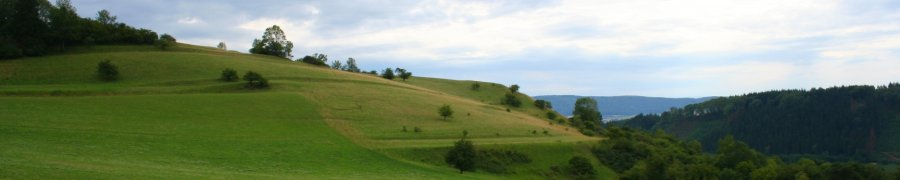
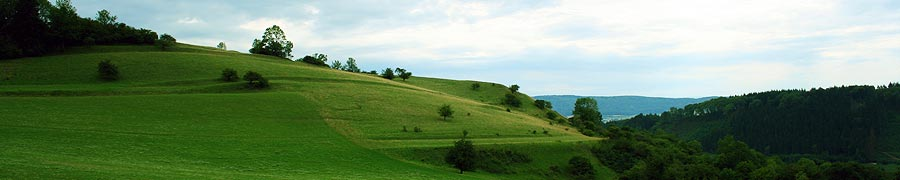
o #226: Layout bugs in IE6/7 fixed   - js: element.getAttribute("class") isn't supported by IE, use element.className instead o #194: All screens optimized for 1024x768   - Stats graphs now 715px instead of 735 o optimized header image for samplecontent o minor text changes o standard copyright head

diff --git a/modul_system/admin/scripts/dragdrophelper_tr.js b/modul_system/admin/scripts/dragdrophelper_tr.js
@@ -117,14 +117,13 @@ if(arrayTableIds == null)
 				parentNode = parentNode.parentNode;
 			//make a regular table out of it and make it look like the original
 			dragEl.innerHTML = "<table "+
-						         " class=\""+parentNode.getAttribute('class')+"\""+
+						         " class=\""+parentNode.className+"\""+
 								 " width=\""+(parentNode.getAttribute('width') != null ? parentNode.getAttribute('width') : "100%" )+"\""+
 								 " border=\""+(parentNode.getAttribute('border') != null ? parentNode.getAttribute('border') : "0" )+"\""+
 								 " cellpadding=\"0\" cellspacing=\"0\" "+
 								 " ><tr"+
-						         " class=\""+clickEl.getAttribute('class')+"\""+
+						         " class=\""+clickEl.className+"\""+
 								 ">" +clickEl.innerHTML+ "</tr></table>";
-
 	    },
 
 	    endDrag: function(e) {
@@ -199,4 +198,3 @@ if(arrayTableIds == null)
 	//and init the app
 	kajona.dragndroplist.DDApp.saveInit();
 })();
-

diff --git a/modul_faqs/installer/installer_sc_faqs.php b/modul_faqs/installer/installer_sc_faqs.php
@@ -43,18 +43,18 @@ class class_installer_sc_faqs implements interface_sc_installer  {
         $objFaq2 = new class_modul_faqs_faq();
         
         if($this->strContentLanguage == "de") {
-        	$objFaq1->setStrQuestion("Was is Kajona?");
-        	$objFaq1->setStrAnswer("Kajona ist ein Open Source Content Management System basierend auf einer SQL-Datenbank und PHP. Dank der modularen Bauweise ist Kajona einfach zu erweitern und anzupassen.");
+        	$objFaq1->setStrQuestion("Was ist Kajona?");
+        	$objFaq1->setStrAnswer("Kajona ist ein Open Source Content Management System basierend auf PHP und einer Datenbank. Dank der modularen Bauweise ist Kajona einfach erweiter- und anpassbar.");
         	
         	$objFaq2->setStrQuestion("Wer entwickelt Kajona, wo gibt es weitere Infos?");
-        	$objFaq2->setStrAnswer("Kajona wird von einer Community entwickelt. Da Kajona ständig weiterentwickelt wird, sind wir immer auf der Suche nach Helfern. Weitere Infos hierzu auch auf <a href=\"http://www.kajona.de\">www.kajona.de</a>");
+        	$objFaq2->setStrAnswer("Kajona wird von einer Open Source Community entwickelt. Da Kajona ständig weiterentwickelt wird, sind wir jederzeit auf der Suche nach Helfern, seien es Programmierer, Grafiker, Betatester und auch Anwender. Weitere Informationen hierzu finden Sie auf <a href=\"http://www.kajona.de\">www.kajona.de</a>.");
         }
         else {
         	$objFaq1->setStrQuestion("What is Kajona?");
-            $objFaq1->setStrAnswer("Kajona is a open source content management system based on a sql-database and php. Due to its modular design, it can be extended and adopted very easily.");
+            $objFaq1->setStrAnswer("Kajona is an open source content management system based on PHP and a database. Due to it\'s modular design, it can be extended and adopted very easily.");
 
             $objFaq2->setStrQuestion("Who develops Kajona, where can I find more infos?");
-            $objFaq2->setStrAnswer("Kajona is being developed by a community. Since Kajona is still being developed, we are searching for contributors. Further infos can be found at <a href=\"http://www.kajona.de\">www.kajona.de</a>");
+            $objFaq2->setStrAnswer("Kajona is being developed by an open source community. Since Kajona is still being developed, we are searching for contributors. Further information can be found at <a href=\"http://www.kajona.de\">www.kajona.de</a>.");
         }
         
         $strReturn .= "Saving faqs...\n";

diff --git a/modul_system/texte/admin/modul_system/texte_system_de.php b/modul_system/texte/admin/modul_system/texte_system_de.php
@@ -127,11 +127,11 @@ $text["_system_admin_email_"]               = "Admin E-Mail:";
 $text["_system_lock_maxtime_"]              = "Maximale Sperrdauer:";
 $text["_system_lock_maxtime_hint"]          = "Nach der angegebenen Dauer in Sekunden werden gesperrte Datensätze automatisch wieder freigegeben.";
 $text["_system_output_gzip_"]               = "GZIP-Kompression der Ausgaben:";
-$text["_system_output_gzip_hint"]           = "Aktiviert das Komprimieren der Ausgaben per gzip, bevor diese an den Client gesendet werden.";
+$text["_system_output_gzip_hint"]           = "Aktiviert das Komprimieren der Ausgaben per GZIP, bevor diese an den Browser gesendet werden.";
 $text["_admin_nr_of_rows_"]                 = "Anzahl Datensätze pro Seite:";
 $text["_admin_nr_of_rows_hint"]             = "Anzahl an Datensätzen in den Admin-Listen, sofern das Modul dies unterstützt. Kann von einem Modul überschrieben werden!";
-$text["_admin_only_https_"]                 = "Admin nur per https:";
-$text["_admin_only_https_hint"]             = "Forciert die Verwendung von https im Adminbereich. Der Webserver muss hierfür https unterstützen.";
+$text["_admin_only_https_"]                 = "Admin nur per HTTPS:";
+$text["_admin_only_https_hint"]             = "Bevorzugt die Verwendung von HTTPS im Adminbereich. Der Webserver muss hierfür HTTPS unterstützen.";
 $text["_system_use_dbcache_"]               = "Datenbankcache aktiv:";
 $text["_system_use_dbcache_hint"]           = "Aktiviert/Deaktiviert den systeminternen Cache für Datenbankabfragen.";
 $text["_remoteloader_max_cachetime_"]       = "Cachedauer externer Quellen:";

diff --git a/modul_system/texte/admin/modul_system/texte_system_en.php b/modul_system/texte/admin/modul_system/texte_system_en.php
@@ -129,11 +129,11 @@ $text["_system_output_gzip_"]               = "GZIP-compression of the output:";
 $text["_system_output_gzip_hint"]           = "Activates GZIP-compression of outputs before sending them to the client.";
 $text["_admin_nr_of_rows_"]                 = "Number of records per page:";
 $text["_admin_nr_of_rows_hint"]             = "Number of records in the admin-lists, if supported by the module. Can be redefined by a module!";
-$text["_admin_only_https_"]                 = "Admin only via https:";
-$text["_admin_only_https_hint"]             = "Forces the use of https when loading the administration. The webserver has to support https to use this option.";
-$text["_system_use_dbcache_"]               = "Databasecache active:";
-$text["_system_use_dbcache_hint"]           = "Enables/Disables the internal database-query cache.";
-$text["_remoteloader_max_cachetime_"]       = "Cachetime of external sources:";
+$text["_admin_only_https_"]                 = "Admin only via HTTPS:";
+$text["_admin_only_https_hint"]             = "Forces the use of HTTPS when loading the administration. The webserver has to support HTTPS to use this option.";
+$text["_system_use_dbcache_"]               = "Database cache:";
+$text["_system_use_dbcache_hint"]           = "Enables/Disables the internal database query cache.";
+$text["_remoteloader_max_cachetime_"]       = "Cache time of external sources:";
 $text["_remoteloader_max_cachetime_hint"]   = "Time in seconds to cache externally loaded contents (e.g. RSS-Feeds).";
 
 

diff --git a/modul_stats/admin/statsreports/class_stats_report_toppages.php b/modul_stats/admin/statsreports/class_stats_report_toppages.php
@@ -149,7 +149,7 @@ class class_stats_report_toppages implements interface_admin_statsreports {
     	    //generate a bar-chart
     	    include_once(_systempath_."/class_graph.php");
     	    $objGraph = new class_graph();
-    	    $objGraph->createBarChart($arrGraphData, 735, 200, false);
+    	    $objGraph->createBarChart($arrGraphData, 715, 200, false);
     	    $objGraph->setXAxisLabelAngle(0);
     	    $objGraph->setStrXAxisTitle($this->objTexts->getText("top_seiten_titel", "stats", "admin"));
     	    $objGraph->setStrYAxisTitle($this->objTexts->getText("top_seiten_gewicht", "stats", "admin"));
@@ -190,7 +190,7 @@ class class_stats_report_toppages implements interface_admin_statsreports {
     		if($intCount > 1) {
         		$arrColors = array("", "red", "blue", "green", "yellow", "purple", "black");
         		$objGraph = new class_graph();
-        		$objGraph->createLinePlotChart(735, 160);
+        		$objGraph->createLinePlotChart(715, 160);
         		$objGraph->setXAxisTickLabels($arrTickLabels, ceil($intCount / 12));
         		foreach($arrPlots as $arrPlotName => $arrPlotData) {
         		    $objGraph->addLinePlot($arrPlotData, next($arrColors), $arrPlotName);

diff --git a/modul_stats/admin/statsreports/class_stats_report_topbrowser.php b/modul_stats/admin/statsreports/class_stats_report_topbrowser.php
@@ -248,7 +248,7 @@ class class_stats_report_topbrowser implements interface_admin_statsreports {
         }
         if(count($arrKeyValues) > 0) {
             $objGraph = new class_graph();
-            $objGraph->create3DPieChart($arrKeyValues, 735, 200);
+            $objGraph->create3DPieChart($arrKeyValues, 715, 200);
             $strFilename = "/portal/pics/cache/stats_topbrowser.png";
             $objGraph->saveGraph($strFilename);
     		$arrReturn[] = _webpath_.$strFilename;
@@ -289,7 +289,7 @@ class class_stats_report_topbrowser implements interface_admin_statsreports {
 		if(count($arrTickLabels) > 1 && count($arrPlots) > 0) {
     		$arrColors = array("", "red", "blue", "green", "yellow", "purple", "black");
     		$objGraph = new class_graph();
-    		$objGraph->createLinePlotChart(735, 160);
+    		$objGraph->createLinePlotChart(715, 160);
     		$objGraph->setXAxisTickLabels($arrTickLabels, ceil($intCount / 12));
     		foreach($arrPlots as $arrPlotName => $arrPlotData) {
     		    $objGraph->addLinePlot($arrPlotData, next($arrColors), $arrPlotName);

diff --git a/modul_stats/admin/statsreports/class_stats_report_topsystems.php b/modul_stats/admin/statsreports/class_stats_report_topsystems.php
@@ -214,7 +214,7 @@ class class_stats_report_topsystems implements interface_admin_statsreports {
             $arrKeyValues["others"] = 100-$floatPercentageSum;
         }
         $objGraph = new class_graph();
-        $objGraph->create3DPieChart($arrKeyValues, 735, 200);
+        $objGraph->create3DPieChart($arrKeyValues, 715, 200);
         $strFilename = "/portal/pics/cache/stats_topsystem.png";
         $objGraph->saveGraph($strFilename);
 		$arrReturn[] = _webpath_.$strFilename;
@@ -257,7 +257,7 @@ class class_stats_report_topsystems implements interface_admin_statsreports {
 		if(count($arrTickLabels) > 1 && count($arrPlots) > 0) {
     		$arrColors = array("", "red", "blue", "green", "yellow", "purple", "black");
     		$objGraph = new class_graph();
-    		$objGraph->createLinePlotChart(735, 160);
+    		$objGraph->createLinePlotChart(715, 160);
     		$objGraph->setXAxisTickLabels($arrTickLabels, ceil($intCount / 12));
     		foreach($arrPlots as $arrPlotName => $arrPlotData) {
     		    $objGraph->addLinePlot($arrPlotData, next($arrColors), $arrPlotName);

diff --git a/modul_system/admin/skins/kajona_v3/css.php b/modul_system/admin/skins/kajona_v3/css.php
@@ -334,13 +334,14 @@ html>body #moduleNavi ul span {
 	padding: 0px;
 }
 
-#moduleNaviHidden ul li:hover {
-	background: #f0f0f0;
-}
-
 #moduleNaviHidden ul li a {
 	display: block;
-	padding: 0 7px 0 7px;
+	width: 90px;
+	padding: 0 0 0 7px;
+}
+
+#moduleNaviHidden ul li a:hover {
+	background: #f0f0f0;
 }
 
 
@@ -512,7 +513,7 @@ h2 {
 /* Q U I C K H E L P, D A S H B O A R D */
 .quickHelpButton {
 	text-align: right;
-	margin: 50px 0 0 0;
+	margin: 50px 0 10px 0;
 }
 
 .quickHelpButton a {
@@ -660,7 +661,7 @@ h2 {
 
 /* L I S T S */
 .adminList {
-	width: 100%;
+	width: 715px;
 }
 
 body.folderView .adminList, body.portalEditor .adminList {
@@ -957,12 +958,14 @@ form .formText .text {
 div.percentBeamText {
 	width: 50px;
 	height: 15px;
+	padding-top: 5px;
 	float: left;
     white-space: nowrap;
 }
 
 div.percentBeam {
 	height: 10px;
+	margin-top: 3px;
 	padding-top: 5px;
 	border-left: 1px solid #737373;
 	border-right: 1px solid #737373;

diff --git a/modul_pages/texte/admin/modul_pages/texte_pages_de.php b/modul_pages/texte/admin/modul_pages/texte_pages_de.php
@@ -126,7 +126,7 @@ $text["submit"]						= "Speichern";
 $text["element_cachetime"]          = "Max. Cachedauer in Sek (-1 = kein Cacheing) :";
 
 $text["_pages_templatewechsel_"]        = "Templatewechsel erlaubt:";
-$text["_pages_templatewechsel_hint"]    = "Definiert, ob das Template einer Seite geändert werden darf, wenn diese Elemente enthält. Wird dies erlaubt,
+$text["_pages_templatewechsel_hint"]    = "Definiert, ob das Template einer Seite geändert werden darf, wenn diese bereits Elemente enthält. Wird dies erlaubt,
                                             kann es zu unerwarteten Nebeneffekten führen!";
 
 $text["_pages_maxcachetime_"]       = "Maximale Cachedauer:";

diff --git a/modul_stats/admin/statsreports/class_stats_report_topqueries.php b/modul_stats/admin/statsreports/class_stats_report_topqueries.php
@@ -170,7 +170,7 @@ class class_stats_report_topqueries implements interface_admin_statsreports {
 	    if(count($arrGraphData) > 1) {
     	    include_once(_systempath_."/class_graph.php");
     	    $objGraph = new class_graph();
-    	    $objGraph->createBarChart($arrGraphData, 735, 200, false);
+    	    $objGraph->createBarChart($arrGraphData, 715, 200, false);
     	    $objGraph->setXAxisLabelAngle(0);
     	    $objGraph->setStrXAxisTitle($this->objTexts->getText("top_query_titel", "stats", "admin"));
     	    $objGraph->setStrYAxisTitle($this->objTexts->getText("top_query_gewicht", "stats", "admin"));

diff --git a/modul_downloads/admin/statsreports/class_stats_report_topdownloads.php b/modul_downloads/admin/statsreports/class_stats_report_topdownloads.php
@@ -161,7 +161,7 @@ class class_stats_report_topdownloads implements interface_admin_statsreports {
     		if($intCount > 1) {
         		$arrColors = array("", "red", "blue", "green", "yellow", "purple", "black");
         		$objGraph = new class_graph();
-        		$objGraph->createLinePlotChart(735, 160);
+        		$objGraph->createLinePlotChart(715, 160);
         		$objGraph->setXAxisTickLabels($arrTickLabels, ceil($intCount / 12));
         		foreach($arrPlots as $arrPlotName => $arrPlotData) {
         		    $objGraph->addLinePlot($arrPlotData, next($arrColors), $arrPlotName);

diff --git a/modul_stats/admin/statsreports/class_stats_report_topcountries.php b/modul_stats/admin/statsreports/class_stats_report_topcountries.php
@@ -193,7 +193,7 @@ class class_stats_report_topcountries implements interface_admin_statsreports {
             $arrKeyValues["others"] = 100-$floatPercentageSum;
         }
         $objGraph = new class_graph();
-        $objGraph->create3DPieChart($arrKeyValues, 735, 200);
+        $objGraph->create3DPieChart($arrKeyValues, 715, 200);
         $strFilename = "/portal/pics/cache/stats_topcountries.png";
         $objGraph->saveGraph($strFilename);
 		$arrReturn[] = _webpath_.$strFilename;
